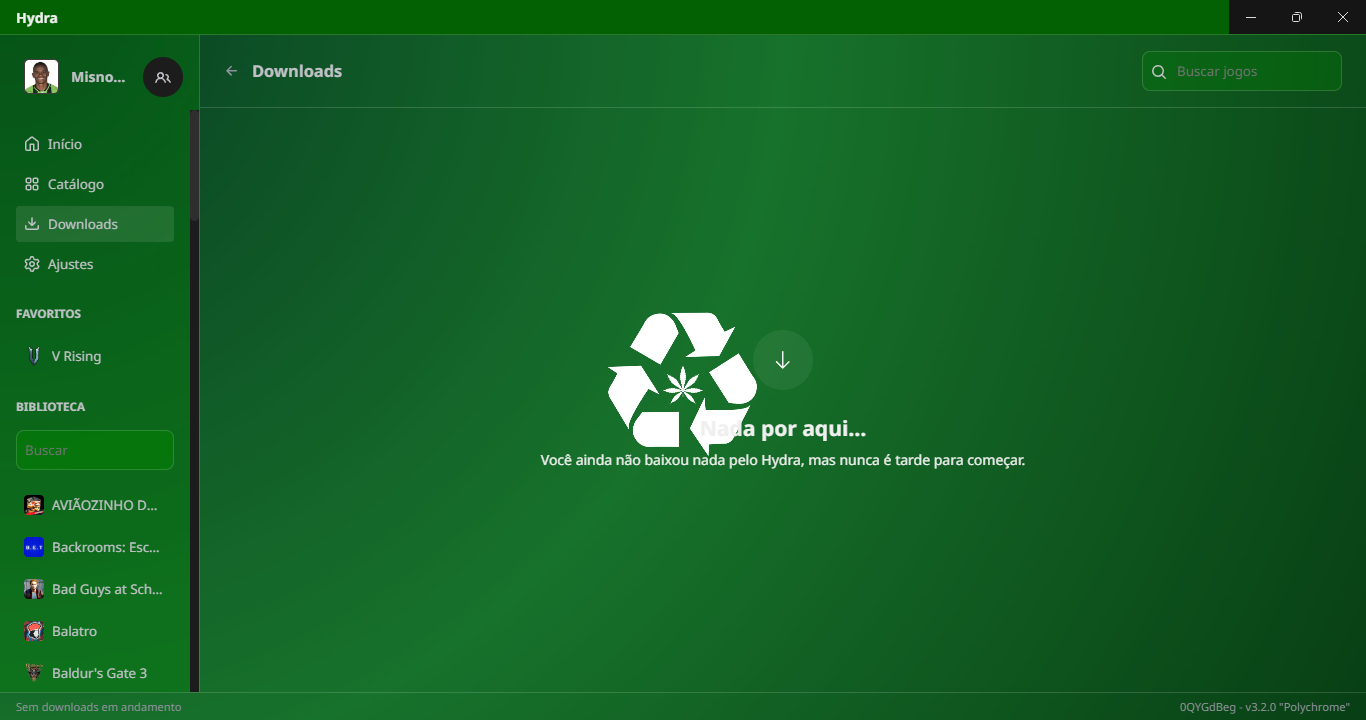
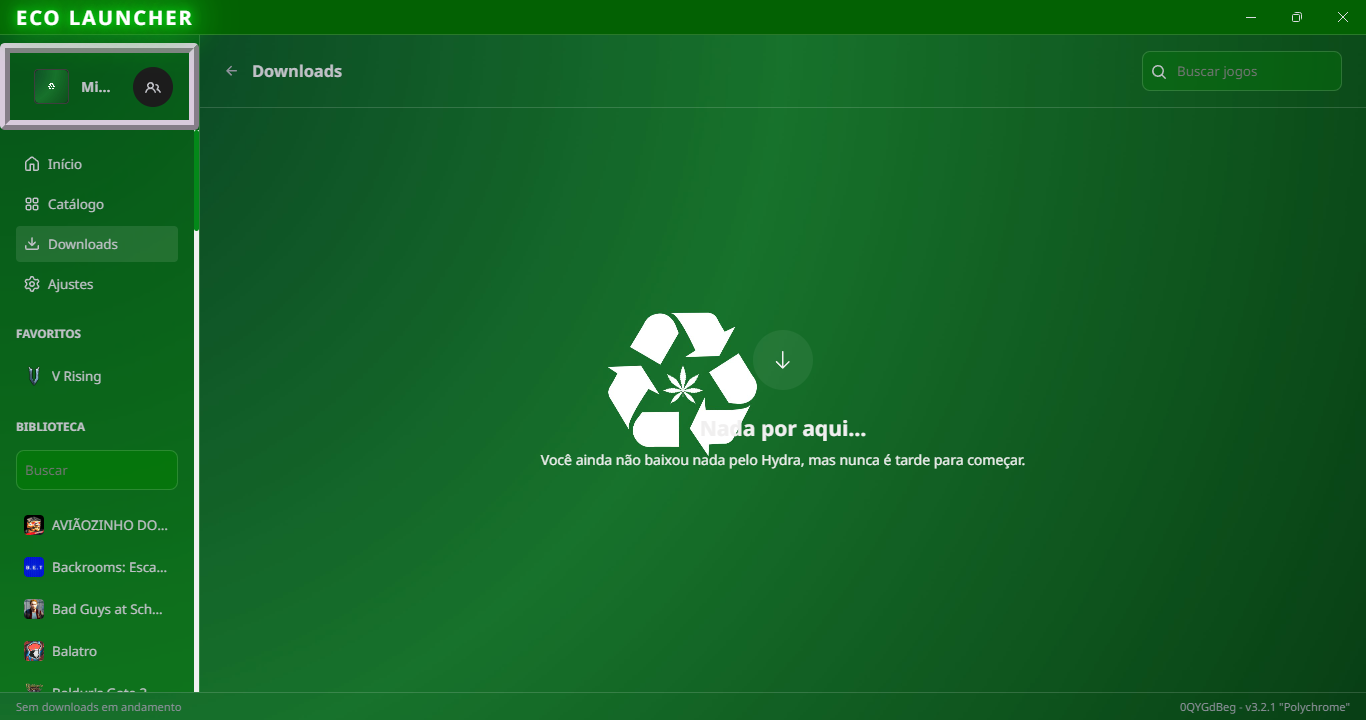
Dessa vez, a versão definitiva (#47)
* theme.css

* O zammito é muito legal!!!

Changed region(s): [[0.0, 0.0, 0.1537, 0.9778], [0.8917, 0.0, 1.0, 0.0611]]

diff --git a/themes/Ecologico Verdo-BQ4YDoM5/theme.css b/themes/Ecologico Verdo-BQ4YDoM5/theme.css
@@ -1,42 +1,155 @@
 .sidebar, .header, .container__content, .bottom-panel {
-    background: transparent;
+  background: transparent;
 }
 
 body {
-    color: #f0efef;
+  color: #f0efef;
 }
 
 #root {
-    background: url(https://pbs.twimg.com/media/GR8CGUwXsAANl7v?format=jpg&name=4096x4096) #6d020200;
-    background-size: cover;
-    background-repeat: no-repeat;
+  background: url(https://pbs.twimg.com/media/GR8CGUwXsAANl7v?format=jpg&name=4096x4096) #6d020200;
+  background-size: cover;
+  background-repeat: no-repeat;
 }
 
 .text-field-container__text-field--dark, .text-field-container__text-field--primary, .header__search, .game-item, .settings__content, .catalogue__filters-container, .friends-box__box, .user-stats__box, .recent-games__box, .sidebar {
-    background-color: rgba(0, 128, 0, 0.322) !important;
-    backdrop-filter: blur(10px);
+  background-color: rgba(0, 128, 0, 0.322) !important;
+  backdrop-filter: blur(10px);
 }
 
 .container__content .button--outline {
-    backdrop-filter: blur(1px);
-    background-color: transparent;
+  backdrop-filter: blur(1px);
+  background-color: transparent;
 }
 
 .settings-download-sources__item, .download-group__item, .game-item {
-    background-color: transparent !important;
+  background-color: transparent !important;
 }
 
 .title-bar {
-    background-color: rgb(3, 97, 3);
+  background-color: rgb(3, 97, 3);
 }
 
 .home__content {
-    background-color: rgba(15, 126, 1, 0);
-    backdrop-filter: blur(1px);
+  background-color: rgba(15, 126, 1, 0);
+  backdrop-filter: blur(1px);
 }
 
 .bottom-panel{
-    background-color: transparent;
+  background-color: transparent;
 }
 
-/*Feito por Misnoia (Made By Misnoia)*/
+.title-bar::before {
+content: "Eco Launcher";
+font-size: 20px;
+font-weight: 700;
+color: #ffffff;
+letter-spacing: 2px;
+text-transform: uppercase;
+background: linear-gradient(45deg, #000000, #000000);
+-webkit-background-clip: text;
+background-clip: text;
+animation: glow 1.5s infinite alternate;
+display: block;
+text-align: left;
+}
+
+
+@keyframes glow {
+0% {
+  text-shadow: 0 0 5px #01a70a, 0 0 10px #0b790173, 0 0 15px #000000, 0 0 20px #3498db, 0 0 30px #3498db;
+}
+100% {
+  text-shadow: 0 0 10px #00fc0d, 0 0 20px #007e06, 0 0 30px #01f13d, 0 0 40px #33ff00, 0 0 50px #15ff00;
+}
+}
+
+.title-bar h4 {
+visibility: hidden;
+}
+
+/* width */
+::-webkit-scrollbar {
+width: 5px;
+}
+
+/* Track */
+::-webkit-scrollbar-track {
+background: #f1f1f1; 
+}
+
+/* Handle */
+::-webkit-scrollbar-thumb {
+background: #038819; 
+}
+
+/* Handle on hover */
+::-webkit-scrollbar-thumb:hover {
+background: #555; 
+}
+
+.game details description{
+background-color: transparent;
+
+}
+.game-details__description-container {
+background: rgba(255, 0, 255, 0);
+padding: 20px;
+border-radius: 10px;
+box-shadow: 0 4px 10px rgba(0, 26, 255, 0);
+}
+
+body {
+cursor: url(https://sweezy-cursors.com/wp-content/uploads/cursor/rainbow-flower-smiley-face-animated/rainbow-flower-smiley-face-animated-cursor-4-32x32.png), auto !important;
+}
+
+* {
+cursor: url(https://sweezy-cursors.com/wp-content/uploads/cursor/rainbow-flower-smiley-face-animated/rainbow-flower-smiley-face-animated-cursor-4-32x32.png), auto !important;
+}
+
+.description-header{
+background-color: rgb(13, 150, 1);
+border-color: rgb(217, 202, 221);
+border-width: 10px;
+border-style: ridge;
+border-radius: 5px;
+}
+
+.hero-panel{
+color: rgb(255, 255, 255);
+border-color: rgb(217, 202, 221);
+border-width: 10px;
+border-style: ridge;
+border-radius: 5px;
+background-color: rgb(13, 150, 1) !important;
+}
+
+.content-sidebar{
+color: rgb(255, 255, 255);
+border-color: rgb(217, 202, 221);
+border-width: 10px;
+border-style: ridge;
+border-radius: 5px;
+background-color: rgb(13, 150, 1) !important;
+}
+
+.sidebar-profile_friends-button{
+background-color: rgb(255, 0, 221);
+
+}
+
+.sidebar-profile{
+color: rgb(255, 255, 255);
+border-color: rgb(217, 202, 221);
+border-width: 10px;
+border-style: ridge;
+border-radius: 5px;
+background-color: rgba(13, 150, 1, 0) !important;
+}
+
+.bottom-panel::after {
+  content: "Theme by Misnoiado, o burro";
+  display: block;
+  text-align: center;
+  font-size: 15px;
+}
